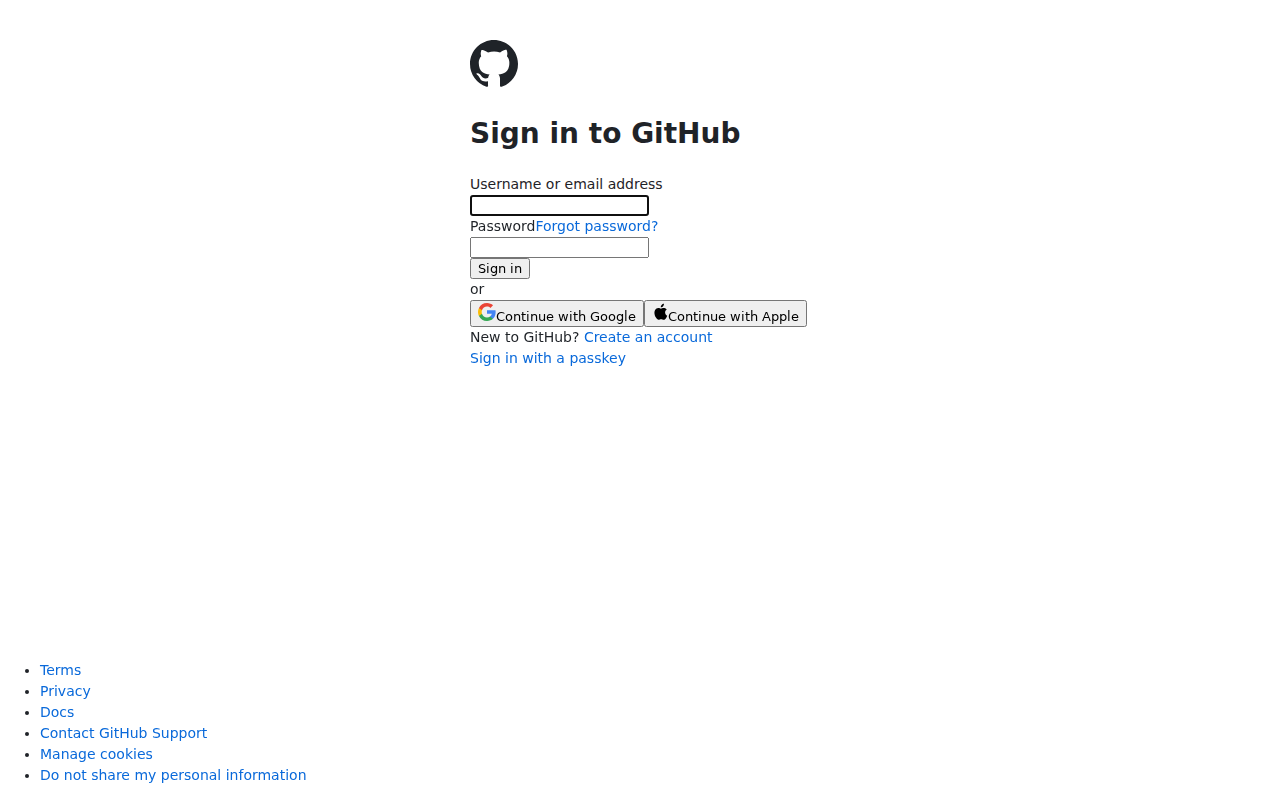
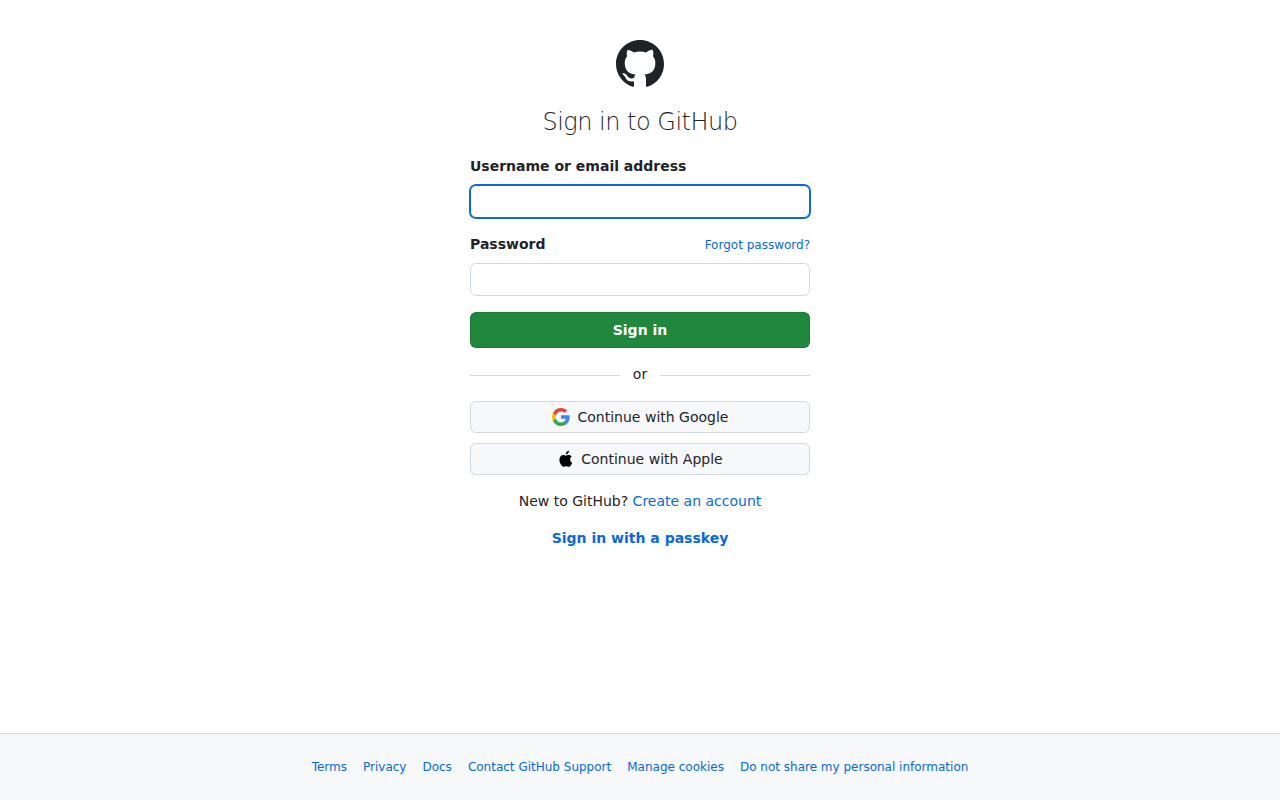
fix: 修复 GitHub 登录页孤儿 CSS 导致的布局错乱
styles.css 未被任何文件 import，样式不打包，页面退化成默认样式
（label/input 同行、footer 竖排、输入框变小）。在 App.tsx 补 import。

generate.py 增加双重防护：
- prompt 约束每个 .css 必须被 import，禁止孤儿/空占位 CSS
- 落盘后确定性兜底 _ensure_css_imported：扫描孤儿 CSS 自动补 import（幂等）

github-login 总分 91.5→93.6，LLM 辅助视觉评分 62→92。

diff --git a/output/github-login/src/App.tsx b/output/github-login/src/App.tsx
@@ -2,6 +2,7 @@ import { useState } from 'react'
 import LoginForm from './components/LoginForm'
 import Footer from './components/Footer'
 import './App.css'
+import './components/styles.css'
 
 function App() {
   return (

diff --git a/pipeline/generate.py b/pipeline/generate.py
@@ -71,6 +71,12 @@ def _build_prompt(scope: dict, capture_meta: dict, feedback: str | None) -> str:
 - 所有 import 必须真实存在；所有用到的变量/类型都要定义；不要留半成品代码。
 - React 18 写法，import 用 `import {{ useState }} from 'react'`。
 
+## 样式必须真正生效（极重要，否则视觉全错）
+- 每个 `.css` 文件都必须被某个 `.tsx`/`.ts` 文件 `import`（如 `import './styles.css'`），
+  否则 Vite 不会打包它，页面退化成浏览器默认样式（label 与 input 挤同行、按钮变小、布局错乱）。
+- 不要生成"孤儿 CSS"：写了样式文件却没人 import。每写一个样式文件，就在对应组件顶部加上它的 import。
+- 不要写空的或只有注释的 CSS 文件来占位。
+
 ## 输出格式（严格遵守）
 对每个文件，先输出一行 `===FILE: 相对路径===`，紧接其完整内容。
 必须包含: package.json、vite.config.ts、index.html、src/main.tsx、src/App.tsx 及所需样式/组件。
@@ -156,7 +162,56 @@ def generate(scope: dict, feedback: str | None = None, round_no: int = 0) -> Pat
         fp.write_text(body, encoding="utf-8")
 
     print(f"[generate] round{round_no} 写入 {len(files)} 个文件 -> {out}")
+    _ensure_css_imported(out)
     return out
+
+
+def _ensure_css_imported(out: Path) -> None:
+    """兜底：把没有被任何 .ts/.tsx import 的"孤儿 CSS"自动引入 App/main。
+
+    上游 prompt 已要求每个 .css 都被 import，但模型偶尔漏掉，导致样式不打包、
+    页面退化成默认样式。这里做确定性补救：扫描产物，发现孤儿 CSS 就追加 import。
+    """
+    src = out / "src"
+    if not src.exists():
+        return
+    css_files = [p for p in src.rglob("*.css")]
+    if not css_files:
+        return
+    code_files = list(src.rglob("*.tsx")) + list(src.rglob("*.ts"))
+    imported = "\n".join(p.read_text(encoding="utf-8", errors="ignore")
+                         for p in code_files)
+
+    # 选锚点：优先 App.tsx，其次 main.tsx
+    anchor = src / "App.tsx"
+    if not anchor.exists():
+        anchor = src / "main.tsx"
+    if not anchor.exists():
+        return
+
+    orphans = []
+    for css in css_files:
+        # 任意以该文件名结尾的 import 都算已引用（相对路径不一）
+        if f"{css.stem}.css" not in imported:
+            orphans.append(css)
+    if not orphans:
+        return
+
+    import os
+    lines = anchor.read_text(encoding="utf-8").splitlines()
+    inserts = []
+    for css in orphans:
+        rel = os.path.relpath(css, anchor.parent).replace(os.sep, "/")
+        if not rel.startswith("."):
+            rel = "./" + rel
+        inserts.append(f"import '{rel}'")
+    # 插到最后一个 import 行之后，保持文件头整洁
+    last_import = max((i for i, ln in enumerate(lines)
+                       if ln.lstrip().startswith("import ")), default=-1)
+    lines[last_import + 1:last_import + 1] = inserts
+    anchor.write_text("\n".join(lines) + "\n", encoding="utf-8")
+    print(f"[generate] 兜底：为 {len(orphans)} 个孤儿 CSS 在 {anchor.name} 补 import "
+          f"({', '.join(c.name for c in orphans)})")
 
 
 if __name__ == "__main__":

diff --git a/reports/github-login/report.md b/reports/github-login/report.md
@@ -2,13 +2,13 @@
 
 - 原始网址：https://github.com/login
 - 复刻类型：form
-- **综合得分：91.5 / 100**
+- **综合得分：93.6 / 100**
 
 ## 维度得分
 
 | 维度 | 得分 | 权重 |  |
 | --- | --- | --- | --- |
-| 视觉一致性 | 83.7 | 0.4 | `█████████████████░░░` |
+| 视觉一致性 | 88.9 | 0.4 | `██████████████████░░` |
 | 功能一致性 | 100.0 | 0.4 | `████████████████████` |
 | 交互一致性 | 90.0 | 0.2 | `██████████████████░░` |
 
@@ -16,7 +16,7 @@
 
 | 视口 | SSIM↑ | 像素差异率↓ | pHash距离↓ |
 | --- | --- | --- | --- |
-| desktop | 0.9065 | 0.0402 | 20 |
+| desktop | 0.899 | 0.0396 | 8 |
 
 ## LLM 辅助视觉评分（交叉验证，不计入主总分）
 
@@ -24,7 +24,7 @@
 
 | 视口 | 布局 | 配色 | 排版 | 组件 | 总评 | 点评 |
 | --- | --- | --- | --- | --- | --- | --- |
-| desktop | 70 | 60 | 65 | 55 | **62** | 整体结构与元素齐全且居中布局相近，但复刻版缺少卡片宽度约束、绿色主按钮、社交按钮垂直堆叠及横向页脚，组件样式还原偏弱。 |
+| desktop | 96 | 88 | 90 | 94 | **92** | 整体布局与组件高度还原，仅标题字重偏细、页脚链接颜色偏蓝有差异。 |
 
 ## 功能覆盖
 

diff --git a/README.md b/README.md
@@ -166,7 +166,7 @@ python report.py <site>               # 渲染报告
 | --- | --- | --- | --- | --- | --- | --- | --- | --- |
 | 1 | 内容展示 | https://www.baidu.com | 搜索框/按钮/结果列表/翻页 | [output/baidu](output/baidu) | **77.5** | 75.3 / 83.3 / 70.0 | 桌面84 / 移动70 | [report](reports/baidu/report.md) |
 | 2 | 表单交互 | 微信支付登录页 | 用户名/密码/验证码/登录 | [output/wxpay-login](output/wxpay-login) | **77.9** | 44.7 / 100 / 100 | 桌面62 | [report](reports/wxpay-login/report.md) |
-| 3 | 表单交互 | https://github.com/login | 用户名/密码/登录交互/必填校验 | [output/github-login](output/github-login) | **91.5** | 83.7 / 100 / 90.0 | 桌面62 | [report](reports/github-login/report.md) |
+| 3 | 表单交互 | https://github.com/login | 用户名/密码/登录交互/必填校验 | [output/github-login](output/github-login) | **93.6** | 88.9 / 100 / 90.0 | 桌面92 | [report](reports/github-login/report.md) |
 
 > 启动任一复刻产物：`cd output/<site> && npm install && npm run dev`。
 
